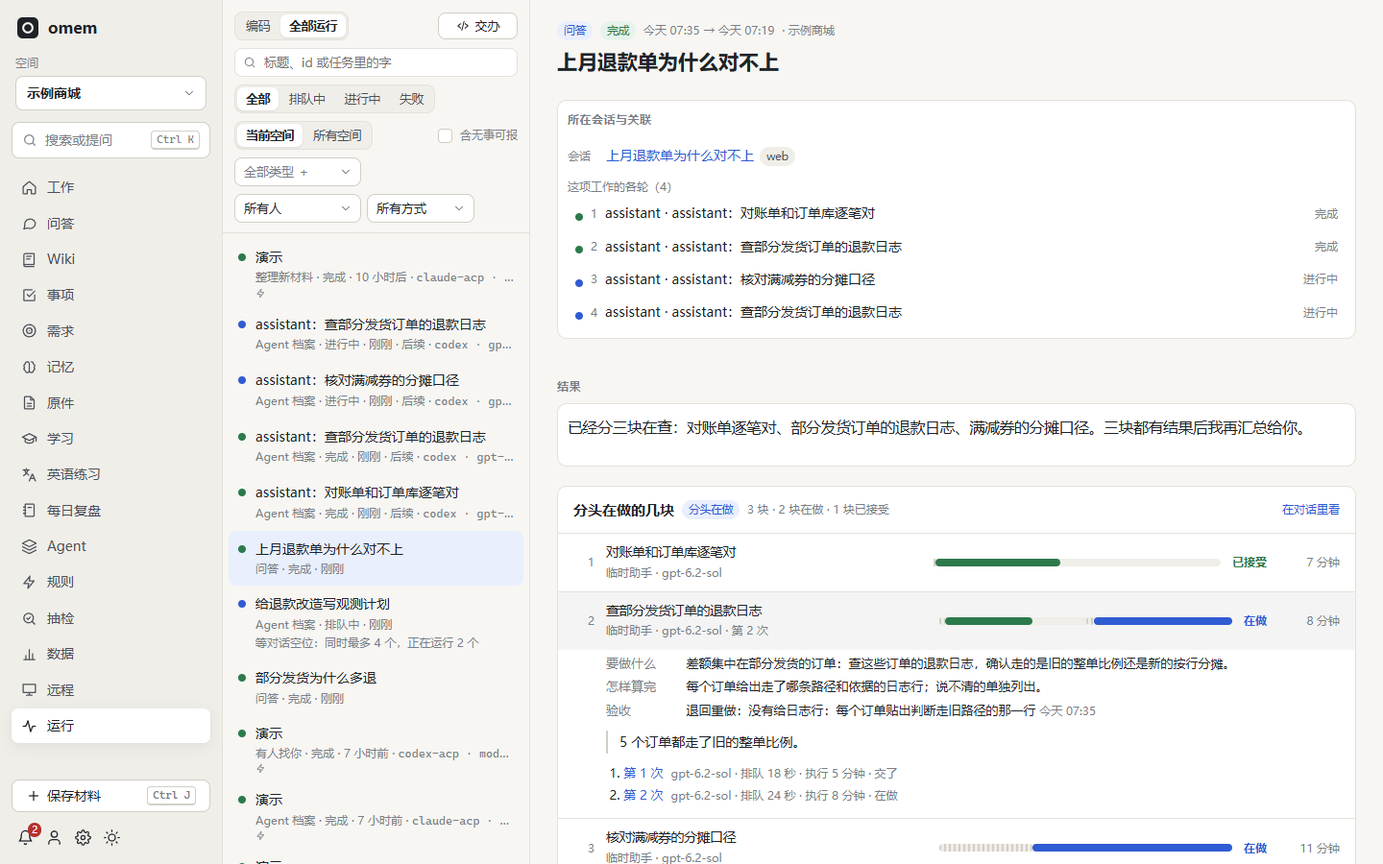
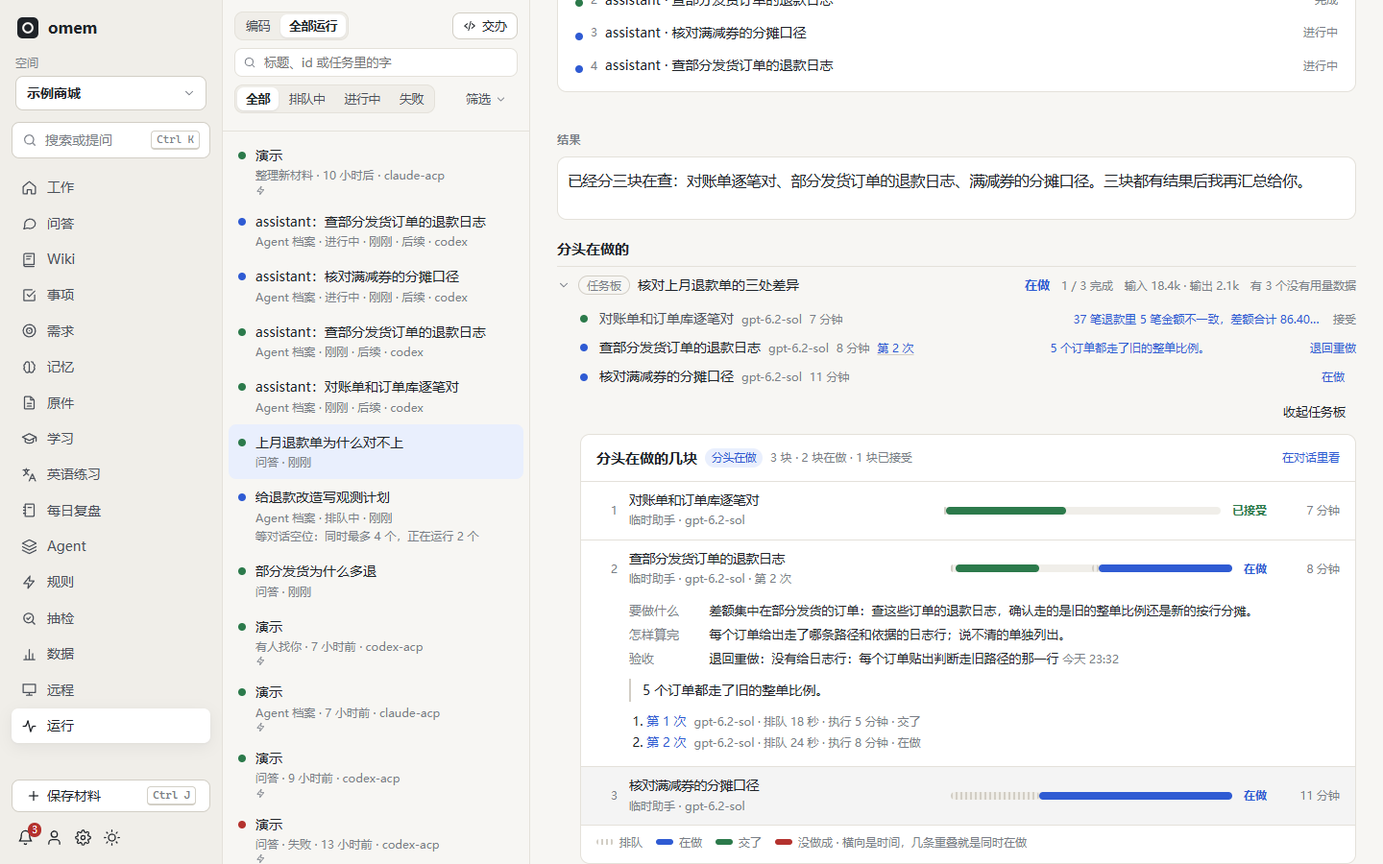
文档：进度视图、远程授权结束的原因、Wiki 用模板开始；截图
- site/features：agents.md 的协同一节写“分头在做的”并加两张截图，work-lines.md 加“在做的”，remote.md、wiki.md 各补一句
- docs/v2/status.md 三行、acceptance.md 新增 18c-progress-web 并改 Wiki 类型和远程授权两条，变更记录最前面加一节，README 的日常用途一行，omem-design 记下进度总览的画法
- 截图：新 progress-board、work-progress；run-board 改成从块里展开；remote-grants 的桩补上候选成员接口
- 演示截图 work-progress 打开两轮的那次交办

diff --git a/scripts/doc-screens.ts b/scripts/doc-screens.ts
@@ -1359,8 +1359,9 @@ const shots: { name: string; path: string; width?: number; dark?: boolean; space
   } },
   // The same on the requirement's work page (在做的), next to its flow.
   { name: "work-progress", path: `/work/${flowItem.id}`, prepare: async (p) => {
-    await p.locator(".pg-sum", { hasText: "编码交办" }).first().click();
-    await p.locator(".pg").scrollIntoViewIfNeeded();
+    await p.locator(".pg-sum", { hasText: "需求交付" }).click();
+    await p.locator(".pg-sum", { hasText: "退款日志写明走了哪条分摊路径" }).filter({ hasText: "编码交办" }).click();
+    await p.locator(".pg").evaluate((el) => el.scrollIntoView({ block: "start" }));
     await p.waitForTimeout(400);
   } },
   { name: "insights", path: "/insights?tab=omem", space: "personal" },

diff --git a/docs/v2/status.md b/docs/v2/status.md
@@ -309,7 +309,7 @@
 | 连接其他平台（docs/v2/connectors.md）：内置插件 `plugins/connect` 把 Nango 目录（npm 依赖 `@nangohq/providers`，运行时读）里的全部 OAuth 2 平台和可采集分组里用 key 连接的平台、加上国内的微信、QQ、微博、钉钉、抖音、Gitee、百度网盘、阿里云盘、语雀，注册成连接器：有“我是谁”接口的是身份（可登录、绑定），其余是能力（只存令牌，不写 identities）；主人在设置 → 采集 → 其他平台搜索、填应用配置（`secrets/connector-apps.json`）、复制回调地址、开放给成员（`auth.connectors`）；成员在账号页授权或填 key（先用平台接口试一次）；`connect_list` / `connect_request`（只读：GET，搜索、查询和 GraphQL query 的 POST）/ `connect_save`（`<平台>:<编号>` 作 uri 和 origin_key）与采集档案 `connect-collector` | 已实现；2026-11-07，`test/connect-plugin.test.ts`（假平台：GitHub 身份绑定、Jira 能力不写身份且不能登录、钉钉 JSON 与自定义令牌头、key 连接的检查、只读请求与拒绝写、存原件与更新）；本地开发实例看过平台应用与账号页（1440 / 390 无横向溢出）；没有用真实平台应用走过授权 | `plugins/connect/`、`src/auth/apps.ts`、`providers.ts`、`login.ts`、`connections.ts`、`web/src/components/ProviderApps.vue`、`web/src/views/Account.vue` |
 | 设置页分组与平台工具按连接给出（2026-11-08）：设置 → 采集（原“连接”，包括飞书文档、消息采集和其他平台；平台列表虚拟滚动），“渠道”只留机器人与聊天渠道，“成员”只管谁能登录（登录方式链接到 设置 → 采集 → 其他平台 填应用），网页地址移到“设备”；工具分组 `connect`（连接插件填充），主助手带 `group:connect`，`whenConnected` 的工具只给连了平台的人（`Tool.available` / `dropUnavailable`）；连接插件不再有侧栏页 | 已实现；`test/connect-plugin.test.ts` 的按连接给出用例；开发实例 1440 / 390 看过连接、成员、设备、渠道四页，平台列表滚动加载、搜索、页内链接切换标签 | `web/src/views/Settings.vue`、`web/src/components/ProviderApps.vue`、`MembersSettings.vue`、`src/agents/tools.ts`、`runner.ts`、`tool-help.ts`、`roles/assistant.md`、`skills/omem/references/connect.md` |
 | 插件通知出口（[加一个通知出口](plugins.md#加一个通知出口)） | 已实现 SDK、隔离进程、普通通知与提问、回执核对、按成员设置与试发 API。插件默认关闭。夜间补送按通知协调飞书与插件。受托成员的审批按出口由本人授权。网页设置控件待接入。 |
-| 插件解析原件和定义 Wiki 页面类型（[插件开发](plugins.md)） | 已实现，2026-11-21。上传、目录导入、仓库基线同步和网址导入可调用进程内或隔离解析器，重建索引沿用结构化行范围。Wiki 插件类型接入规划、写作校验和自动维护。页面到期即安排复查，引用原件可以保持不变。网页（2026-11-21）：原件页按表格或条目显示并可切回原文，每行保留行号、可以引用（`web/src/components/SourceStructured.vue`、`lib/source-display.ts`）；设置 → 采集 → 其他平台 列出解析器；Wiki 页头显示类型，编辑和新建时可选类型。只在演示数据上看过。 | `src/plugins/formats.ts`、`src/sources/import.ts`、`src/wiki/upkeep.ts`、`test/plugin-formats.test.ts` |
+| 插件解析原件和定义 Wiki 页面类型（[插件开发](plugins.md)） | 已实现，2026-11-21。上传、目录导入、仓库基线同步和网址导入可调用进程内或隔离解析器，重建索引沿用结构化行范围。Wiki 插件类型接入规划、写作校验和自动维护。页面到期即安排复查，引用原件可以保持不变。网页（2026-11-21）：原件页按表格或条目显示并可切回原文，每行保留行号、可以引用（`web/src/components/SourceStructured.vue`、`lib/source-display.ts`）；设置 → 采集 → 其他平台 列出解析器；Wiki 页头显示类型，编辑和新建时可选类型；编辑时选了带模板的类型且正文为空，可以“用模板开始”（`GET /api/wiki/kinds?templates=1`）。只在演示数据上看过。 | `src/plugins/formats.ts`、`src/sources/import.ts`、`src/wiki/upkeep.ts`、`test/plugin-formats.test.ts` |
 | 插件订阅事项与评审事件、同步外部事项、按用户和空间合批采集指标、参与检索（[插件开发](plugins.md)） | 已实现按空间启用的插件召回、主搜索和被动记忆的可替换重排。共享设备按授权调用插件，被动记忆可单独配置插件门槛。提供者状态与错误见 `GET /api/search/providers`，网页在 设置 → 检索与记忆 →“插件参与检索”（`web/src/components/SearchProviders.vue`，2026-11-21，只在演示数据上看过）。评审提供者按事项上的对象发布行内评论，发布与结束由本人确认，讨论更新进入运行和插件事件。网页在评审页“待处理问题”上面（`web/src/components/ReviewSync.vue`）：发到哪个对象、各状态的条数、发布和结束的确认、读讨论，每条问题带平台上的状态和作者回复；只在演示数据上看过，确认之后的真实发布没走过。事项同步的网页（设置 → 推进工作 → 事项同步，事项和工作页的“来自……”一块）只在演示数据上走过订阅、导入和回写询问，没连过真实平台。订阅包含候选事项的创建和采纳、拒绝时的状态变化。2026-11-21 [交叉回归](acceptance.md#plugin-process-hooks) 通过，覆盖跨空间去重、父子归类与条件回写。 | `src/plugins/event-delivery.ts`、`src/items/providers.ts`、`src/data/metrics.ts` |
 | 插件管理与第三方插件（docs/v2/plugins.md）：启用开关（`plugins.disabled`，切换不用重启）；从 npm 包或 GitHub tag 安装、更新、删除（不跑安装脚本，来源记在 `.omem-install.json`），带代码的仍要信任；清单 `permissions` 声明写入、连接器、平台包，数据目录插件超出声明的拒绝加载；设置 → 插件显示来源、版本、权限；`omem plugin` 命令 | 已实现；2026-11-07，`test/plugin-install.test.ts`（假 GitHub 下载：安装、信任、停用与启用、更新后要重新信任、超出声明被拒、重名保护、删除）；npm 来源没有自动化测试 | `src/plugins/install.ts`、`registry.ts`、`http.ts`、`src/cli-main.ts`、`web/src/components/PluginsSettings.vue` |
 | 插件隔离运行（docs/v2/plugins.md）：数据目录插件信任时默认隔离运行，代码在单独的 Node 进程里，启用权限模型（只读自己的目录和 omem 的包、只写自己的数据目录，不能起子进程），工具和平台包读取器在 omem 里注册为代理；连接、插件记录、存原件、盯着、服务都向 omem 请求，按正在进行的调用的人和空间回答，令牌不出 omem；内容块和新连接器要选“在 omem 里运行” | 已实现；2026-11-07，`test/plugin-sandbox.test.ts`（读 vault.key 和 config.json 被拒、不能起程序、参数检查、经 omem 读写记录和连接、令牌由 omem 加、平台包读取器给同步用、撤销信任后进程停止） | `src/plugins/sandbox.ts`、`sandbox-runner.ts`、`trust.ts`、`registry.ts`、`web/src/components/PluginsSettings.vue` |
@@ -350,7 +350,7 @@
 | 向量规模：按空间 int8 矩阵 | 已实现；17 万片段 nDCG 86.76 → 86.62，常驻 1.5GB → 0.42GB | `src/search/vectors.ts`、`scripts/bench-scale.ts` |
 | 渠道：网页、CLI、MCP、飞书机器人、飞书个人消息（只读）、Telegram、OneBot（QQ/微信桥） | 已实现；OneBot 有模拟服务端测试；飞书与 Telegram 需真实账号验收 | `src/channels` |
 | 桌面与浏览器控制：`omem setup` / `omem setup desktop` / 设置 → 设备 → 桌面与浏览器控制 经 osdk 装 ai-auto-desktop 的 `aad`（`github:lejunyang/ai-auto-desktop`，Linux 带 musl 资产模板，按目录找已装的程序，识别 osdk 对未选用工具的失败垫片）；`launch` 给 Agent 进程的 PATH 前面放它的目录；内置技能 `desktop-control`（`references/aad.md`）教看→定位→动手→验证、浏览器调试端口、安全规则；`scripts/browser.mjs` 按名字开长期保留的浏览器资料（`remote/profiles/<名>`，开着就复用，默认无界面，按域名加请求头，用随资料生成的扩展拦下打开本机程序的 `xxx://` 链接），技能要求做通的网页操作存成技能和脚本（2026-11-18）；`omem diag` 的 `tools.aad`；`seedBuiltinSkills` 连 `references/` 一起播种，只补缺的技能 | 已实现；假 osdk / 假 aad 测试覆盖查找与安装，Windows 上用真实 aad 0.0.2 在无界面 Chrome 里走通 apps → describe → fill → click → find → capture；macOS / Linux 的安装和桌面操作待真机 | `src/core/tools.ts`、`src/setup.ts`、`src/agents/spawn.ts`、`src/agents/specs.ts`、`skills/library/desktop-control/` |
-| 浏览器会话按成员临时授权，主人与操作成员可同时输入，受管技能打开的页面关联到运行 | 后端已实现；网页 2026-11-21：远程页“交给成员”抽屉（选人、只看 / 可操作、时长，改模式、延长、收回），被授权的人只看到交给他的会话、只看时没有输入，收回或到期写一句话；助手开的会话标出并链到运行。只用接口桩在演示数据上走过，没连真实的 aad 会话 | `src/remote/grants.ts`、`proxy.ts`、`agent-browser.ts`、`web/src/components/RemoteGrants.vue`、`web/src/lib/remote-grants.ts` |
+| 浏览器会话按成员临时授权，主人与操作成员可同时输入，受管技能打开的页面关联到运行 | 后端已实现；网页 2026-11-21：远程页“交给成员”抽屉（选人、只看 / 可操作、时长，改模式、延长、收回），被授权的人只看到交给他的会话、只看时没有输入，收回、到期、会话关闭收到 `remote-grant-ended` 事件就按原因写一句话（轮询只作兜底，被交给的人一分钟一次），抽屉读 `GET /api/remote/grant-candidates`（会话主人不是本人时也能选人，旧服务端退回读成员列表）；助手开的会话标出并链到运行。只用接口桩在演示数据上走过，没连真实的 aad 会话 | `src/remote/grants.ts`、`proxy.ts`、`agent-browser.ts`、`web/src/components/RemoteGrants.vue`、`web/src/lib/remote-grants.ts` |
 | 远程操作与录制技能（docs/v2/remote.md）：导航“远程”（装了 aad 才出现，`desktop.control` 权限）；画面可以单独打开（`#/remote/<会话>`，不带侧栏，2026-11-18）和全屏（Chromium 安全上下文里锁键盘）；剪贴板两个方向互通文字、富文本、图片和文件（aad 0.0.9 起，画面设置里的文件上限对应 `--clipboard-max-mb`，2026-11-19）；浏览器会话起 `aad mcp --allow-input` 经 `browser_open`（默认无窗口，长期资料在 `remote/profiles/<名>`）再起 `aad assist --browser-port`，桌面会话起 `aad assist --desktop`；查看页和 WebSocket 在 `/remote/<会话>/` 转发（会话 cookie + Origin、转发的本人令牌、无令牌时的本机），`/remote` 进 `tunneled` 和 `/api/peers/:id/remote/*`；地址栏经 `control_act navigate`（快照被截断时经浏览器调试端口 `Page.navigate`），查看页断开后自动重连并可手动刷新；会话在内存，30 分钟没人看自动结束；录制表 `remote_recordings`，浏览器用 `browser_record_start/stop`（`redact_network`）再 `aad browser-record steps --save`，桌面用 `aad record --until-stdin-closes --save`，文件在 `remote/recordings/<id>/`，启动时把还在录的标成中断；停止后以本人名义在页面对话里交给助手；工具分组 `remote`（`list_recordings`、`read_recording`）、`save_skill` 的 `from_recording` 和 `recording_requests`（只写 `recording/requests.md`：按接口合并、略去埋点 / 静态资源 / 预检 / 轮询，`src/remote/requests.ts`），内置技能 `skill-from-recording`；页面上不再提供回放（2026-11-14 去掉）；`OMEM_TOOL_<名>` 指定某个工具的程序（开发 aad 时用本地构建）；画面设置（`src/remote/settings.ts`，每人一份存 kv）换成 `aad assist` 的 `--codecs`、`--quality`、`--fps`、`--max-width`、`--hide-cursor`、`--no-clipboard`，`aad assist --probe-video` 的结果按 aad 版本缓存，开会话时带 `--encoder` 免得每次重试所有编码器，`POST /api/remote/sessions/:id/viewer` 给开着的会话换查看进程；浏览器可从本机 Chrome / Edge / Brave 的资料复制登录（`browser_profiles`、`copy_profile`），共享一个窗口时录制自动用这个窗口；关闭会话先等待 `browser_close` 释放资料，再断开 MCP；长期资料同样支持 `close_running`，先结束同一人的旧会话；aad 检查占用 PID、清理已退出进程的锁并保留启动错误，需对应修复版本；后台服务显式保留桌面环境，无 DISPLAY 时网页禁用窗口模式 | 已实现；假 aad（test/fake-aad.ts）；本机真实 aad + Codex 跑通一次浏览器录制到技能；画面设置在本机 aad 0.0.5 上验过 |
 | 网页实时连接管理（按需、可见性断开、重连补数据）；HTTPS / HTTP/2 端口（`https` 配置，与原 http 端口并存，默认关闭） | 已实现；2026-11-11，真实浏览器待验 | `web/src/lib/live.ts`、`src/server/secure.ts` |
 | 飞书加粗规范化、引用编号 (n)、需决定卡片统一收尾 | 已实现；2026-11-11，飞书真机待验 | `channels/lark-markdown.ts`、`citations.ts`、`lark-send.ts`（decidedBlocks） |
@@ -367,7 +367,7 @@
 | 会话与运行的感知（docs/v2/awareness.md）：运行的范围键（飞书会话和话题、会话、触发消息、事项，宿主从输入和事项工具得出，表 `run_scope`）；任务里的“同时在办的相关工作”（30 分钟内）；后台运行发出前（notify、飞书消息和卡片、回复对方、最终回答）本人在范围内说过话就交回再过一轮，每次运行一次，通知闸门的已读和表情信号并进同一个检查；后台运行下一次工具调用附上本人刚说的话；事项与会话自动关联（事项材料）、“这件事还在这些会话里进行”、候选事项；`read_item` 全貌；`take_over_run`；事项页“在这些会话里进行” | 已实现；2026-11-11，`test/awareness.test.ts`；真实模型和真机未验 | `src/agents/run-scope.ts`、`awareness.ts`、`src/items/places.ts`、`web/src/components/ItemPlaces.vue` |
 | v1 导入 | 已实现，合成库测试 | `src/migrate-v1.ts` |
 | 工作近况与人物卡（docs/v2/work-state.md）：每晚 `work-state` 角色按宿主列的事实（本人发言多的会话、打开或发过链接的文档、编码交办、事项、会议、找助手做的事）改 personal 的 `state/work`，给有新消息的常打交道的人写 `people/<名字>`（每晚上限）；“本人补充”一节 Agent 写入时原样保留；摘要和人物卡经 `ownerContextParts` 注入对话、巡检、有人找你、会后说明 | 已实现；2026-11-11，真实数据上的整理质量待验 | `agents/work-state.ts`、`agents/work-state-job.ts`、`agents/owner-now.ts`、`roles/work-state.md`、定时任务 work-state |
-| 运行和事项的统一进度接口，按任务汇总尝试与用量。编码项保留历次接管运行，助手及其发起的评审咨询按分工归属，旧轮可按接管记录或助手分工中的主轮和项号找回。续轮评审归到同一交办。助手可按事项或运行查询，课题折叠历史轮时保留重跑对应的发现 | 后端及工具已实现；2026-11-21 | `src/agents/progress.ts`、`test/progress.test.ts` |
+| 运行和事项的统一进度接口，按任务汇总尝试与用量。编码项保留历次接管运行，助手及其发起的评审咨询按分工归属，旧轮可按接管记录或助手分工中的主轮和项号找回。续轮评审归到同一交办。助手可按事项或运行查询，课题折叠历史轮时保留重跑对应的发现 | 后端及工具已实现；2026-11-21。网页（2026-11-21，演示数据）：`components/ProgressBoard.vue` 一块一行摘要（种类、状态、完成几项、在等什么、用量和缺报数），展开是任务的紧凑行（谁在做、耗时、产出链接、验收、“第 N 次”的历次尝试、“等 T2”），只读、每项链到自己的页面；运行页替换原来的任务板位置（任务板一行可展开原时间轴，接口不存在时照旧显示任务板），工作项页和事项页加“在做的”；刷新沿用运行、任务板、事项的事件。`test/web-progress.test.ts`；截图 `progress-board`、`work-progress`。真实服务器上只看过页面，没有在真实交办上核对数字 | `src/agents/progress.ts`、`test/progress.test.ts`、`web/src/components/ProgressBoard.vue`、`web/src/lib/progress.ts` |
 | 协同任务板：2～6 块并行，必选块收齐后由发起人身份一次协调，按本轮可验收的块提交决定，按块重做、取消、超时和重启恢复；运行详情关联任务板，按运行权限查询及订阅进度 | 已实现；2026-11-21 | `src/agents/work-board.ts`、`test/work-board.test.ts` |
 | 多 Agent 工作的过程消息收敛（`agents.progress.messages`，默认只在完成和卡住时发：只是接着推进的协调回复留在工作会话，话题里一张原地更新的进度卡）；思考气泡三档（`agents.progress.thinking`，默认只给回答本人自己消息的那一轮）；交办时借工具（`extra_tools`，只借发起方自己有的，不借以本人身份写飞书、发消息、再交办的） | 已实现；2026-11-11，测试覆盖，飞书真机未验 | `src/agents/agent-work.ts` 的 `onlyMovedOn`、`src/agents/jobs.ts`、`src/channels/lark-work-progress.ts`、`lark-agent-cot.ts` 的 `showThinking`、`lark-progress.ts`、`src/agents/tools.ts` 的 `lendTools`、`test/agent-work-progress.test.ts` |
 | 经豆包以本人身份发私聊：“有人找你”私聊回复（`mentions.reply.lark.signedVia`）和 `/ai`（`lark.commands.signedVia`）可选 `doubao`；每条消息建一个新的豆包 OpenAPI 会话，只交给它定稿全文和对方（姓名、邮箱、user_id、chat_id），固定一行结果，用完删除（失败进 `session_cleanup`）；lark-cli 只读私聊核对，未核对 / 不一致 / 失败单独告诉本人；审计；本人手动试发 `omem doubao send-test` / 设置页按钮 | 已实现；2026-11-11 假豆包接口和假 lark-cli 测试，豆包真机待验（见 docs/v2/mentions.md “经豆包发送”） | `src/channels/doubao-send.ts`、`mention-reply.ts`、`lark-commands.ts`、`web/src/components/DoubaoSendStatus.vue` |

diff --git a/docs/v2/acceptance.md b/docs/v2/acceptance.md
@@ -341,7 +341,7 @@ rm src/search/bench-baseline.ts
 - 用示例类型写缺少“返回”的接口说明，应收到修改意见。补全后查看页面类型、模板和 30 天维护周期，把检查时间推进 31 天，核对角色应收到该页及 30 天到期原因。停用插件后仍可编辑原页面。类型检查超时的页面仍可保存。
 - 网页：插件参与检索（2026-11-21，演示数据 `node scripts/doc-screens.ts --serve`）。设置 → 检索与记忆 的“插件参与检索”列出两路召回和一个重排：打开两路召回，给其中一路只选“示例商城”，“用谁重排”换成示例相关性模型，刷新后三项都在；搜一次后每路写着上一次的耗时，故意出错的那路用红字写原因、悬停看全文。选了插件重排时多出“插件重排的记忆门槛”，空着显示沿用的本地门槛。没有插件提供者的库（常驻服务器）上这张卡不出现。1440 / 390 无横向溢出。截图 `search-providers`。
 - 网页：原件的结构化展示（2026-11-21，演示数据）。打开“十月退款单抽样”：默认是表格，头部写“由表格（CSV）读成这样”；Tab 到 R1005 那一行按回车，地址变成 `?from=9&to=9`，上方出现“选中第 9 行 · 复制引用 · 看原文”，切到“原文”时引用块高亮。打开“客服话术库”并带 `?from=4&to=4`：第二条自动展开并标出，正文不重复标题。设置 → 采集 → 其他平台 末尾有“能读的格式（插件）”，列出两个解析器和它们认的扩展名、地址。截图 `source-table`。`test/web-source-display.test.ts` 覆盖切行、几种行写法和引用的行号。
-- 网页：Wiki 页面类型（2026-11-21，演示数据）。`ops/runbook-negative-amount` 的头部有“处理手册”小标签，悬停是插件写的用途；点“编辑”可以在类型下拉里看到内置和插件的类型，选插件类型时下面一句写什么时候用；“写一页新文章”同样可选类型。插件类型注销后，页面照原样显示类型名，编辑时下拉里多一项“插件已停用，照原样保留”。`GET /api/wiki/kinds` 不返回模板正文，所以没有“用模板开始”。
+- 网页：Wiki 页面类型（2026-11-21，演示数据）。`ops/runbook-negative-amount` 的头部有“处理手册”小标签，悬停是插件写的用途；点“编辑”可以在类型下拉里看到内置和插件的类型，选插件类型时下面一句写什么时候用；“写一页新文章”同样可选类型。插件类型注销后，页面照原样显示类型名，编辑时下拉里多一项“插件已停用，照原样保留”。编辑时把正文清空、类型选“处理手册”，类型旁出现“用模板开始”，点了正文变成模板的四个小标题，按钮随即消失；正文不为空时不出现。服务端不给 `template`（旧版本）时按钮不出现。
 - 目录导入量级（2026-11-21）：空测试库中，每个 JSONL 文件含一条标题和正文。启用一个隔离解析器，单次 `importDirectory` 导入 2,000 个文件，用时 8.67 秒，新增 2,000，跳过 0。计时从目录导入开始，到写索引完毕返回为止。
 
 - 网页：评审的事项上挂着合并请求时，评审页“待处理问题”上面有一行同步状态（`node scripts/doc-screens.ts --serve` 的演示数据里有已发、作者回复、没发出去、要重新定位各一条）。点“发布 N 条…”从右侧出确认，逐条选发布或跳过；确认后那一行的数字和每条问题的标签跟着变。事项上没有这类对象、或没有启用评审提供者时这一行不出现。
@@ -823,6 +823,7 @@ pnpm run dev                # 打开 http://localhost:5173
 | 18c-code-consult | 将两项分别交给两个助手，仅由第一项的助手通过 `ask_reviewer` 提问 | 咨询沿用交办的评审会话，父运行是提问的助手。第一项和整块各计入这次咨询一次，第二项的运行数和用量保持原值。 |
 | 18c-code-legacy | 查看首轮拆项并分派、换模型后续做的旧交办。首轮仅留有两个助手各自的分工 | 每项都列出首轮、本项助手和接管轮。首轮用量在两项中各显示一次，在整块中只计一次。 |
 | 18c-progress | 从子运行请求 `GET /api/runs/:id/progress`，从事项请求 `GET /api/items/:id/progress`。对比重试前后、共享运行和其他空间成员所见，再用 `work_status` 查询 | 两轮编码分别提交评审后，根运行只显示一个评审块，保留两轮结论、问题和用量。可见任务共用状态与尝试结构。每块的输入输出按运行去重，上下文占用计为缺报。事项优先列出进行中及等待的块；历史课题轮仅列小计，传 `history=true` 展开。无法读取的详情与进度同样拒绝访问。分别关闭共享事项成员的「看流程」和「看编码」，运行页、事项页和 work_status 各省略对应块；可读的课题台账仍返回。 |
+| 18c-progress-web | 演示数据（`node scripts/doc-screens.ts --serve`）打开“上月退款单为什么对不上”那次运行和工作项“退款改造：评审通过，等我推送”；再把两个进度接口桩成 404 各看一次；1440 / 390 两个宽度，只用键盘走一遍 | 运行页“分头在做的”有任务板、编码交办、评审三行，默认收起；交办一行写“在等 · 3 / 3 完成 · 2 轮”和暖色的“等本人确认交付”，任务板写“有 3 个没有用量数据”。展开后 T2 带“第 2 次”，点开列出两次的排队、执行和用量；提交号等宽、不是链接；任务标题链到最近一次尝试的运行。任务板一行的“看时间轴和报告”展开原来的任务板。工作项页的“在做的”另有流程一行（推送“等你”，上线确认“等 推送”），流程证据写“原件 / 方案 / 运行”而不是 id；没有进度块的事项不出现这一块。接口 404 时运行页照旧显示任务板、工作项页没有这一块，页面不报错。Tab 到摘要行回车展开，再 Tab 到任务标题回车进入那次运行。两个宽度都没有横向溢出（2026-11-21 晚） |
 | 18c-board-stop | 派出一块必选和一块较慢的可选任务，缩短截止时间；另起一板取消整组，或模拟服务重启 | 可选块不挡验收。超时记录失败原因，整板取消会停止排队和执行中的运行。重启后失去运行的块按失败收尾。另一用户访问无权读取的板得到 404 |
 | 18d | 在 18c 的话题里回复补充要求 | 回复落在同一个工作会话（网页运行详情的“所在会话”显示多 Agent 工作会话，各轮列在一起）；助手续在同一项工作上，不新开话题；要的文件作为附件发在话题里；回复里没有服务器本机路径的链接 | 2026-10-20 待验 |
 | 19-link | 通知正文不带 URL，仅 link 为外部 HTTPS 地址；再试站内路由与事项已有同一链接 | 飞书卡片有可打开的外链按钮；站内路由和非法协议不生成按钮；事项保留已处理/忽略且外链不重复 | 假客户端回归：`test/notification-card.test.ts` |
@@ -2136,7 +2137,7 @@ TraeX 与其他 ACP 的清理补验：
 - 成员只有能力时列表为空。主人授权后打开浏览器画面；把 Cookie 用在另一会话时被拒。只看模式发送键鼠、粘贴、文件块和未知消息，假 aad 只收到协商画面的消息。改为操作后重新打开，主人和成员交替输入 A、B、C，目标文本为 ABC。成员能下载自己画面中复制的文件。
 - 保持 WS 空闲，分别撤销、等到过期、停用成员、结束会话，已有连接断开，旧地址加 Cookie 也无法再开。检查授权和撤销审计。成员不能转授、关闭、录制或改画面设置。
 - 用受管启动脚本打开测试页，主人列表显示对应运行和空间；另一成员获授权后可见。关闭目标页面时两端断开。假 aad、假 CDP 的自动回归见 `test/remote-grants.test.ts`。
-- 网页（2026-11-21，演示数据加接口桩，`scripts/doc-screens.ts` 的 `prepareRemoteDemo`）：主人在画面上方点“交给成员”打开抽屉，全程用键盘：选“小周”（只有看的能力，能做什么只剩“只看”并写明原因）、2 小时、交给他；再给“小林”可操作，然后在小林那一行改成只看；收回小周时 `confirmDialog` 写明对方会断开。接口依次收到 POST、POST、PATCH、DELETE，Esc 关抽屉后焦点回到“交给成员”。会话标签写“交给 N 人”，助手开的标“助手”。以小周的身份（`/api/me` 加上 `remote.view`）从侧栏进远程：只有交给他的会话，没有新开、关闭、录制、画面设置和地址栏，上方一行“只能看，不能点和输入 · 本人交给你的 · 到今天 …”；桩改成空列表后 15 秒内变成“本人收回了这次授权”。1440 / 390 无横向溢出。直接打开 `#/remote` 的成员会先被送到问答（侧栏的“远程”在 `/api/me` 之后才加上，`App.vue` 的页面守卫先判了），从侧栏点进去正常。截图 `remote-grants`。`test/web-remote-grants.test.ts` 覆盖候选成员、到期的说法和收回 / 到期的区分。
+- 网页（2026-11-21，演示数据加接口桩，`scripts/doc-screens.ts` 的 `prepareRemoteDemo`）：主人在画面上方点“交给成员”打开抽屉，全程用键盘：选“小周”（只有看的能力，能做什么只剩“只看”并写明原因）、2 小时、交给他；再给“小林”可操作，然后在小林那一行改成只看；收回小周时 `confirmDialog` 写明对方会断开。接口依次收到 POST、POST、PATCH、DELETE，Esc 关抽屉后焦点回到“交给成员”。会话标签写“交给 N 人”，助手开的标“助手”。以小周的身份（`/api/me` 加上 `remote.view`）从侧栏进远程：只有交给他的会话，没有新开、关闭、录制、画面设置和地址栏，上方一行“只能看，不能点和输入 · 本人交给你的 · 到今天 …”；桩推一条 `remote-grant-ended` 事件（`/api/events` 的桩），页面立刻按原因写“阿青收回了这次授权”“授权到期了”“会话已经关了”（2026-11-21 晚，三种各走一次）；被交给的人轮询改成一分钟一次。会话主人是小林（不是本人）、`/api/users` 返回 403 时，抽屉仍从 `GET /api/remote/grant-candidates`（桩）列出小周、小吴，小林自己不在里面。1440 / 390 无横向溢出。直接打开 `#/remote` 的成员会先被送到问答（侧栏的“远程”在 `/api/me` 之后才加上，`App.vue` 的页面守卫先判了），从侧栏点进去正常。截图 `remote-grants`。`test/web-remote-grants.test.ts` 覆盖候选成员、到期的说法和收回 / 到期的区分。
 
 前提：这台机器装了带 `aad browser-record steps`、`aad record --until-stdin-closes`、查看页相对地址的 ai-auto-desktop（ai-auto-desktop#12 合入并发版之后）。
 

diff --git a/README.md b/README.md
@@ -263,7 +263,7 @@ npm install -g @omem-ai/cli
 | 同事改完了，复审 | 评审概览上点“复审”（或对助理说“复审一下”），可补充要求、贴上作者的回复：评审项看上次以后的增量，把上次的问题逐条判成已修 / 仍在 / 不再适用，再提新问题；还在的严重问题让复审不通过。问题发到合并请求上时助理登记是哪条评论，复审判为已修的列出来去 resolve |
 | 查某个分支上的代码 | 问答里说“feature/refund 上退款金额怎么算的”，或 `omem search --space <仓库> --branch <分支> …`；分支改过、删过的文件按分支上的版本，其余按仓库；`omem branches <空间>` 列分支和已建索引的分支，仓库同步时索引跟着分支更新 |
 | 代码索引别被目录里检出的分支带偏，按时更新 | 设置 → 空间 → 仓库的“代码索引”选“按基线分支”（新接入、有 origin 的仓库默认就是）：从远端默认分支（或你填的分支）的提交里读，不管目录里检出了什么、有没有没提交的改动；每小时拉取一次，基线有新提交才重读改过的文件，没变化时只问一次远端、不拉取。正在做的功能分支、预发分支加进“跟的分支”，和基线一起刷新。助手默认只查基线，回答里写明代码来自哪个分支、哪次提交；问分支上的事时它带分支查。代码平台能发 webhook 的，用“变更通知令牌”调 `POST /api/code-index/notify`，推送后马上同步（怎么接各家平台写成数据目录的技能） |
-| 问一件事项分头做到哪了 | 把事项或运行交给助手查进度，可一起看到修改项、评审、流程关卡、课题试验及任务板的等待原因和用量。 |
+| 问一件事项分头做到哪了 | 把事项或运行交给助手查进度，可一起看到修改项、评审、流程关卡、课题试验及任务板的等待原因和用量；运行页的“分头在做的”和工作项页的“在做的”也按块列出这些，等你的标暖色。 |
 | 让助手并行核对几份材料，最后只收一份结论 | 告诉助手各块要核对什么、用什么依据验收。助手可以分头调查，收齐后退回有缺口的块，并在汇总里注明各结论的来源 |
 | 大改动多看几个角度、加自己的专项评审 | Agent 页 → 评审：档位（默认轻 / 标准 / 完整）按改动行数、文件数、路径等条件或一句话说明（AI 判断）选择，每档挑评审项和最多几轮；新库标准档为功能、精简、业务，完整档为功能、精简、架构、业务、历史、规范，轻档不变，已有档位不迁移。精简查能删、能合并、能用已有实现的地方，规范只查约定和会误导人的命名、注释、类型；默认同家评审换成可用的别家模型，换不了仍评审并显示“同一家模型”，可设为在摘要里明确标出不算独立评审；“加专项评审”把一个 Agent 档案（如只看鉴权的安全评审）挂成评审项，可设额外加入的条件或说明。交办时说“用完整评审”直接指定档位。打开“由评审负责人协调”的档位由负责人合并、裁决各项意见，下一轮只复审受影响的评审项；改不动、僵持或需要换方案时停下来在飞书 / 运行页问你；打开“先给我看计划”的档位编码后先确认评审计划；打开“多轮时换模型复审”的档位从第 2 轮起各评审项轮换用列表里的模型（同一轮各项也错开），交办时也可以单独开关 |
 | 别人私聊你时让 AI 先处理、或拉个群让机器人接手 | 在 设置 → 代你回复 → 私聊指令 打开开关，在私聊里发 `/ai [要求]` 或 `/ai拉群` |

diff --git a/site/features/agents.md b/site/features/agents.md
@@ -93,7 +93,13 @@ omem 自己的每类工作都由一个专门的角色来做，大约三十个。
 
 <Shot src="run-board" caption="运行页上的任务板：每块谁在做、用的模型、排队和执行多久、验收了没有；横向的轨是时间，重叠的就是同时在做" />
 
-发起这件事的那次运行的页面上有这块任务板：一行一块，点开看它要做什么、怎样算完、交回的报告、验收的决定和每一次尝试。
+发起这件事的那次运行的页面上有“分头在做的”：这次提问下面的任务板、编码交办、评审各占一行，写着在做还是在等、几项里完成了几项、在等什么（等你确认的用暖色标出）、用了多少 token，有运行没报用量时写“有 N 个没有用量数据”。点开一行是它的任务：谁在做、用了多久、交回了什么（报告、提交、评审问题，能点开的是链接）、验收了没有；重做过的写“第 2 次”，点开看每一次的排队和执行时长。只有等你的、失败或卡住的、正在跑的显眼，其余是灰的。这里不放按钮，每项点进它自己的页面去处理；任务板那一行可以展开原来的时间轴和报告。
+
+<Shot src="progress-board" caption="分头在做的：任务板还有两块在做，编码交办三项都过了、等你确认交付，其中一项第二次才过" />
+
+工作项和事项的页面上同样有一块“在做的”，把挂在这件事上的流程、任务板、交办和评审放在一起；什么都没有时不出现。
+
+<Shot src="work-progress" caption="工作项上的“在做的”：流程停在推送等你，旁边是同一件事的任务板、交办和评审" />
 
 也可以问“这件事项分头做到哪了”。助手能按事项或运行同时列出任务板、修改项、评审、流程和课题，说明哪一项要你确认。用量合计包含重试和子运行，缺少输入输出 token 的运行会单列数量。
 

diff --git a/.repo-review/wiki/reference/changes-since-2026-10-13.md b/.repo-review/wiki/reference/changes-since-2026-10-13.md
@@ -20,6 +20,13 @@ updated: 2026-11-21
 
 这个文件超过四百行左右时，把最早的一批整节移到归档里（没有合适的就新建一个按时间段命名的文件，并在上面加一行）。
 
+## 网页：统一的进度视图，远程授权按原因结束，Wiki 用模板开始（2026-11-21）
+
+- 进度视图从 `web/src/components/ProgressBoard.vue` 和 `web/src/lib/progress.ts` 读起：读 `GET /api/runs/:id/progress` 或 `/api/items/:id/progress`，一块一行摘要，展开是任务的紧凑行，只读、每项链到自己的页面。运行页（`views/Runs.vue`）用它替换原来的任务板位置，任务板一块可展开原来的 `TaskBoard`；接口不存在时照旧显示 `TaskBoard`。`views/WorkDetail.vue` 和 `views/Items.vue` 各加一个“在做的”。刷新跟着 `run`、`work`、`changed item` 事件。
+- 远程页（`views/Remote.vue`、`components/RemoteGrants.vue`、`lib/remote-grants.ts`）：抽屉读 `GET /api/remote/grant-candidates`，旧服务端退回读成员列表；被授权的一侧订 `remote-grant-ended` 事件，按 `revoked` / `expired` / `closed` 说话；`GET /api/remote` 里最近结束的条目不再当成会话。
+- Wiki（`views/Wiki.vue`）：类型清单带 `templates=1`，编辑时正文为空才出现“用模板开始”。
+- 演示数据（`scripts/doc-screens.ts`）：退款改造的需求上补了两轮的编码交办和评审，新截图 `progress-board`、`work-progress`。
+
 ## 从旧交办的助手分工找回首轮（2026-11-21）
 
 从 `src/agents/progress.ts` 的编码投影读起。助手分工同时记有主轮和修改项号。即使拆项后还没写检查点就中断，修改项也能列出分派它的可见主轮。多项共用的主轮在交办总量里只算一次。

diff --git a/site/features/wiki.md b/site/features/wiki.md
@@ -60,7 +60,7 @@ Wiki 按用户的问题组织，不按文件逐个生成：先规划要写哪些
 <Shot src="wiki-tree-mobile" caption="手机上同样是目录树" />
 
 - 目录名取自它自己的 `index` 页的标题（点目录名打开这一页），没有就用路径最后一段；空间的 `index` 是首页。
-- 规划和写作时每页都放进合适的目录，顶层只放总览、入门；新建页面时可以选目录和页面类型（插件提供的类型带一句什么时候用），页面头部写着它的类型，编辑时可以改。
+- 规划和写作时每页都放进合适的目录，顶层只放总览、入门；新建页面时可以选目录和页面类型（插件提供的类型带一句什么时候用），页面头部写着它的类型，编辑时可以改；选了带模板的类型、正文还空着时，点“用模板开始”把模板填进正文。
 - **移动**：页面头部的“移动”、`omem wiki move <空间> <旧路径> <新路径>`（整个目录写成 `cases/` `kb/cases/`）。旧路径会留作别名：带旧路径的链接、记忆里的 `[[旧路径]]` 和书签仍能打开，其他页面里的链接自动改成新路径，页面引用的原件状态不变。
 - **整理目录**：目录旁的文件夹按钮或 `omem wiki organize <空间>`。顶层散落 6 页以上，或某个目录直接放了 40 页以上时，助理按主题分子目录，一轮处理不完会接着排下一轮；设置 → 空间里可以关掉自动整理。
 

diff --git a/site/features/remote.md b/site/features/remote.md
@@ -43,4 +43,4 @@
 
 <Shot src="remote-grants" caption="交给成员：小林可以操作、正在看，刚把这个会话交给小周看两个小时" />
 
-被交给的人在侧栏看到“远程”，里面只有交给他的会话，标签上写着是谁的；画面上方一行写着能看还是能操作、到什么时候。只看时没有地址栏，也不能点和输入。没有新开会话、关闭、录制和画面设置。授权被收回或到期时，页面写“××收回了这次授权”或“授权到期了”。助手在一次运行里打开的浏览器也在列表里，标着“助手”，画面上方可以点“看这次运行”；它同样可以交给成员。
+被交给的人在侧栏看到“远程”，里面只有交给他的会话，标签上写着是谁的；画面上方一行写着能看还是能操作、到什么时候。只看时没有地址栏，也不能点和输入。没有新开会话、关闭、录制和画面设置。授权一结束页面就跟着变，并写明原因：“××收回了这次授权”“授权到期了”或“会话已经关了”。会话主人不是你本人时（比如成员自己开的会话），“交给成员”同样列得出可以交给的人。助手在一次运行里打开的浏览器也在列表里，标着“助手”，画面上方可以点“看这次运行”；它同样可以交给成员。

diff --git a/site/features/work-lines.md b/site/features/work-lines.md
@@ -73,6 +73,12 @@
 
 每条点进去是它自己的页面。指着（或用 Tab 走到）一条，和它连着的几条亮起来，其余变淡。只连存着的关系，不按名字猜：发现现在不记是哪个需求点的，所以发现只和它发起的交办连着；合并请求不记是哪次交办的，单独列着。一条线的页面是下面各工作项的汇总，按工作项分开，同一次交办只列一次。需求树的节点上反过来写着“属于工作项：……”。
 
+### 在做的
+
+“需求到交付”下面是“在做的”：这件事上的流程、任务板、编码交办、评审和课题，一行一块，写着在做还是在等、完成了几项、在等什么、用了多少 token；点开看每一项谁在做、交回了什么、验收了没有。等你的、失败的、正在跑的显眼，其余是灰的。每项点进它自己的页面处理。成员看到的只有他能看的那几块。没有在做或刚结束的事时不出现。
+
+<Shot src="work-progress" caption="在做的：流程停在推送等你，同一件事的交办三项都过了" />
+
 ## 关键变化从哪来
 
 时间线上一条只说一件事：一句话的标题，展开写原因、风险、下一步和来源。几处会写：
